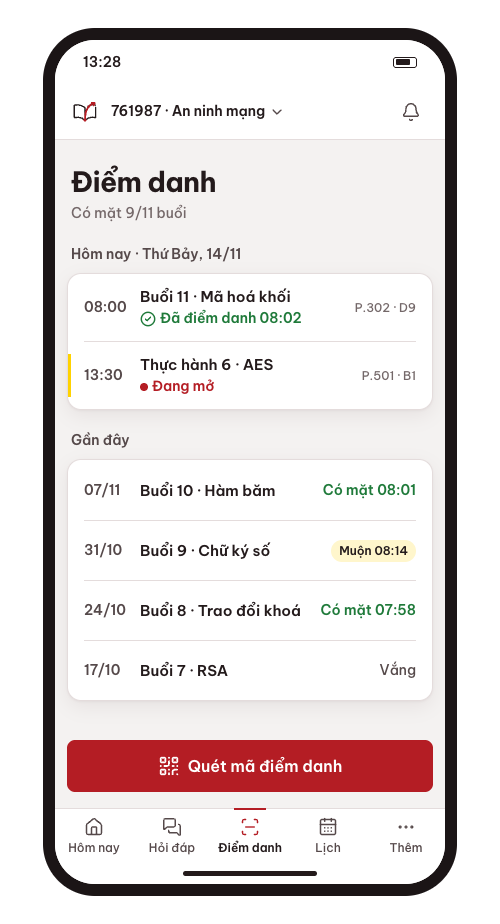
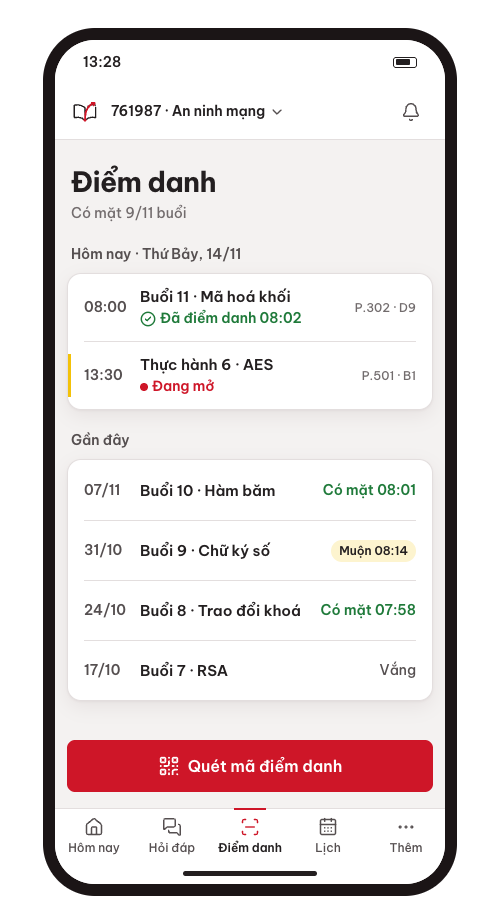
10.7: màn mẫu dùng mã màu chính thức của sổ tay nhận diện ĐHBK Hà Nội 2026 (đỏ #CE1628, vàng #F3C108, đen #231F20)

Changed region(s): [[0.12, 0.7879, 0.87, 0.8788], [0.27, 0.3939, 0.3, 0.4242]]

diff --git a/docs/sprints/10.7/mau/mau-1.html b/docs/sprints/10.7/mau/mau-1.html
@@ -8,9 +8,11 @@
   MẪU THAM CHIẾU sprint 10.7 (UI-R). KHÔNG phải mã sản phẩm, không chép vào frontend/.
   Áp: (1) hợp đồng khung trang (nháp DESIGN.md §23): một mẫu đầu trang, Page kiểu `work`, mỗi vùng một Panel rộng đúng cột, cao theo nội dung;
        (2) bộ màu theo nhận diện Đại học Bách khoa Hà Nội: đỏ + vàng điểm nhấn + trắng.
-  MÃ MÀU TẠM (chưa đối chiếu sổ tay nhận diện, làm ở TL-1):
-    đỏ  #B41D24, đỏ đậm #9D1D1F  = màu chủ đạo trong CSS cổng hust.edu.vn (themes/hust/css/hust.css, custom.css; đọc 2026-11-14)
-    vàng #FFD200                 = màu vàng trong CSS cổng qldt.hust.edu.vn (css/index.css; đọc 2026-11-14)
+  MÃ MÀU CHÍNH THỨC: «Sổ tay nhận diện thương hiệu ĐHBK Hà Nội – version 2026» (hust.edu.vn › Hệ thống nhận diện thương hiệu, PDF ngày 23/10/2026), trang 4 «Hệ màu quy chuẩn»:
+    đỏ  RGB 206, 22, 40  = #CE1628 (CMYK 0, 100, 90, 15)
+    vàng RGB 243, 193, 8 = #F3C108 (CMYK 0, 20, 100, 5)
+    đen RGB 35, 31, 32   = #231F20 (CMYK 0, 0, 0, 100)
+  Đỏ đậm, đỏ nhạt, vàng nhạt, xám là màu SUY RA từ ba màu trên (không có trong sổ tay).
   Vàng chỉ làm NỀN / chấm / vạch (chữ vàng trên trắng không đạt AA). Đỏ vẫn là tín hiệu: đang ở đâu, cần hành động, số việc chờ.
 -->
 <link rel="preconnect" href="https://fonts.googleapis.com">
@@ -20,14 +22,14 @@
 :root {
   color-scheme: light;
   /* ---- bộ màu Bách khoa (đề xuất; chỉ đổi ở tokens.css) ---- */
-  --ep-red: #B41D24;
-  --ep-red-hover: #9D1D1F;
-  --ep-red-soft: #FBEFEF;
-  --ep-yellow: #FFD200;        /* MỚI: điểm nhấn hiếm, chỉ làm nền / chấm / vạch */
-  --ep-yellow-soft: #FFF6CC;   /* MỚI: nền nhãn «cần chú ý», chữ --ep-ink */
+  --ep-red: #CE1628;          /* đỏ Bách khoa (sổ tay tr. 4) */
+  --ep-red-hover: #A81220;    /* suy ra: đỏ đậm khi rê / nhấn */
+  --ep-red-soft: #FDEEF0;     /* suy ra: nền mục đang chọn */
+  --ep-yellow: #F3C108;       /* vàng Bách khoa (sổ tay tr. 4). MỚI: điểm nhấn hiếm, chỉ làm nền / chấm / vạch */
+  --ep-yellow-soft: #FDF4CF;  /* suy ra. MỚI: nền nhãn «cần chú ý», chữ --ep-ink */
   --ep-canvas: #F4F2F1; --ep-surface: #FFFFFF; --ep-surface-subtle: #FAF6F6;
-  --ep-ink: #231A1B; --ep-ink-2: #55494A; --ep-ink-3: #746869; --ep-rule: #E4DCDC;
-  --ep-green: #1F7A3A; --ep-blue: #1F5FA8;
+  --ep-ink: #231F20; --ep-ink-2: #554F50; --ep-ink-3: #726C6D; --ep-rule: #E3DEDE; /* --ep-ink = đen Bách khoa (sổ tay tr. 4) */
+  --ep-green: #1F7A3A; --ep-blue: #003366;
   /* ---- không đổi ---- */
   --ep-font: "Be Vietnam Pro", "Noto Sans", ui-sans-serif, system-ui, sans-serif;
   --ep-text-page: 1.75rem; --ep-text-section: 1.25rem; --ep-text-item: 1rem; --ep-text-body: .9375rem; --ep-text-label: .875rem; --ep-text-meta: .75rem;
@@ -88,7 +90,7 @@ h1, h2, h3, p { margin: 0; } ul { margin: 0; padding: 0; list-style: none; } svg
 .row + .row { border-top: 1px solid var(--ep-rule); }
 .dot { flex: none; width: 8px; height: 8px; border-radius: var(--ep-radius-pill); background: var(--ep-ink-3); align-self: flex-start; margin-top: 9px; }
 .dot.red { background: var(--ep-red); }
-.dot.yellow { background: var(--ep-yellow); box-shadow: 0 0 0 1px #C79A00; } /* viền đậm hơn một bậc: chấm vàng vẫn đọc được trên trắng */
+.dot.yellow { background: var(--ep-yellow); box-shadow: 0 0 0 1px #B8900A; } /* viền đậm hơn một bậc: chấm vàng vẫn đọc được trên trắng */
 .text { flex: 1; min-width: 0; display: grid; gap: 2px; }
 .itemTitle { font-size: var(--ep-text-item); font-weight: 600; line-height: 1.4; }
 .context { font-size: var(--ep-text-label); line-height: 1.5; color: var(--ep-ink-2); font-variant-numeric: tabular-nums; }
@@ -151,15 +153,15 @@ h1, h2, h3, p { margin: 0; } ul { margin: 0; padding: 0; list-style: none; } svg
   <div class="brand"><svg width="188" height="40" viewBox="0 0 188 40" fill="none" xmlns="http://www.w3.org/2000/svg">
   <title>EduPilot</title>
   <g>
-    <path d="M4.75 10.25C10.3 8.85 15.35 10.15 20 14.15V31.6C15.35 27.8 10.3 26.6 4.75 28.15V10.25Z" stroke="#251D1E" stroke-width="2" stroke-linejoin="round"/>
-    <path d="M35.25 10.25C31.15 9.2 27.35 9.65 23.75 11.75" stroke="#251D1E" stroke-width="2" stroke-linecap="round"/>
-    <path d="M35.25 12.8V28.15C30.05 26.7 25.3 27.55 20 31.6" stroke="#251D1E" stroke-width="2" stroke-linecap="round" stroke-linejoin="round"/>
-    <path d="M20 31.55C20.05 24.9 20.75 19.5 23.15 15.25C25.45 11.15 28.55 8.75 33.55 7.15" stroke="#B41D24" stroke-width="2.7" stroke-linecap="round"/>
-    <path d="M29.4 6.65L34.1 6.9L31.9 11.1" stroke="#B41D24" stroke-width="2.2" stroke-linecap="round" stroke-linejoin="round"/>
-    <circle cx="20" cy="31.55" r="2.2" fill="#B41D24"/>
+    <path d="M4.75 10.25C10.3 8.85 15.35 10.15 20 14.15V31.6C15.35 27.8 10.3 26.6 4.75 28.15V10.25Z" stroke="#231F20" stroke-width="2" stroke-linejoin="round"/>
+    <path d="M35.25 10.25C31.15 9.2 27.35 9.65 23.75 11.75" stroke="#231F20" stroke-width="2" stroke-linecap="round"/>
+    <path d="M35.25 12.8V28.15C30.05 26.7 25.3 27.55 20 31.6" stroke="#231F20" stroke-width="2" stroke-linecap="round" stroke-linejoin="round"/>
+    <path d="M20 31.55C20.05 24.9 20.75 19.5 23.15 15.25C25.45 11.15 28.55 8.75 33.55 7.15" stroke="#CE1628" stroke-width="2.7" stroke-linecap="round"/>
+    <path d="M29.4 6.65L34.1 6.9L31.9 11.1" stroke="#CE1628" stroke-width="2.2" stroke-linecap="round" stroke-linejoin="round"/>
+    <circle cx="20" cy="31.55" r="2.2" fill="#CE1628"/>
   </g>
-  <text x="51" y="27" fill="#251D1E" font-family="Be Vietnam Pro, Noto Sans, Arial, sans-serif" font-size="21" font-weight="700" letter-spacing="-0.5">Edu</text>
-  <text x="88" y="27" fill="#B41D24" font-family="Be Vietnam Pro, Noto Sans, Arial, sans-serif" font-size="21" font-weight="700" letter-spacing="-0.5">Pilot</text>
+  <text x="51" y="27" fill="#231F20" font-family="Be Vietnam Pro, Noto Sans, Arial, sans-serif" font-size="21" font-weight="700" letter-spacing="-0.5">Edu</text>
+  <text x="88" y="27" fill="#CE1628" font-family="Be Vietnam Pro, Noto Sans, Arial, sans-serif" font-size="21" font-weight="700" letter-spacing="-0.5">Pilot</text>
 </svg></div>
   <nav class="nav" aria-label="Điều hướng chính">
     <div class="group"><div class="groupLabel">Làm việc</div>

diff --git a/docs/sprints/10.7/mau/mau-app.html b/docs/sprints/10.7/mau/mau-app.html
@@ -6,7 +6,7 @@
 <title>EduPilot · Mẫu app · Điểm danh bằng mã QR (sinh viên) · bộ màu Bách khoa</title>
 <!--
   MẪU THAM CHIẾU sprint 10.7 / 10.8. KHÔNG phải mã sản phẩm. Màn sinh viên trên app điện thoại (390 × 844), điểm danh bằng mã QR của sprint 10.8.
-  Cùng bộ màu tạm với mau-1.html: đỏ #B41D24 / #9D1D1F (CSS cổng hust.edu.vn), vàng #FFD200 (CSS cổng qldt.hust.edu.vn); đối chiếu sổ tay nhận diện ở TL-1.
+  Mã màu chính thức theo «Sổ tay nhận diện thương hiệu ĐHBK Hà Nội – version 2026», trang 4: đỏ #CE1628 (RGB 206, 22, 40), vàng #F3C108 (RGB 243, 193, 8), đen #231F20 (RGB 35, 31, 32). Màu nhạt / đậm là suy ra.
   Một nút chính ở vùng ngón cái; trạng thái 1–2 từ, có chữ + biểu tượng (không truyền nghĩa chỉ bằng màu); vùng chạm ≥ 44 px.
 -->
 <link rel="preconnect" href="https://fonts.googleapis.com">
@@ -15,9 +15,9 @@
 <style>
 :root {
   color-scheme: light;
-  --ep-red: #B41D24; --ep-red-hover: #9D1D1F; --ep-red-soft: #FBEFEF; --ep-yellow: #FFD200; --ep-yellow-soft: #FFF6CC;
+  --ep-red: #CE1628; --ep-red-hover: #A81220; --ep-red-soft: #FDEEF0; --ep-yellow: #F3C108; --ep-yellow-soft: #FDF4CF;
   --ep-canvas: #F4F2F1; --ep-surface: #FFFFFF; --ep-surface-subtle: #FAF6F6;
-  --ep-ink: #231A1B; --ep-ink-2: #55494A; --ep-ink-3: #746869; --ep-rule: #E4DCDC; --ep-green: #1F7A3A;
+  --ep-ink: #231F20; --ep-ink-2: #554F50; --ep-ink-3: #726C6D; --ep-rule: #E3DEDE; --ep-green: #1F7A3A;
   --ep-font: "Be Vietnam Pro", "Noto Sans", ui-sans-serif, system-ui, sans-serif;
   --ep-text-page: 1.75rem; --ep-text-item: 1rem; --ep-text-body: .9375rem; --ep-text-label: .875rem; --ep-text-meta: .75rem;
   --ep-space-1: .25rem; --ep-space-2: .5rem; --ep-space-3: .75rem; --ep-space-4: 1rem; --ep-space-5: 1.25rem; --ep-space-6: 1.5rem;
@@ -124,12 +124,12 @@ h1, h2, p { margin: 0; } svg { display: block; } button { font: inherit; }
   <header class="topbar">
     <svg class="mark" width="40" height="40" viewBox="0 0 40 40" fill="none" xmlns="http://www.w3.org/2000/svg">
   <title>EduPilot mark</title>
-  <path d="M4.75 10.25C10.3 8.85 15.35 10.15 20 14.15V31.6C15.35 27.8 10.3 26.6 4.75 28.15V10.25Z" stroke="#251D1E" stroke-width="2" stroke-linejoin="round"/>
-  <path d="M35.25 10.25C31.15 9.2 27.35 9.65 23.75 11.75" stroke="#251D1E" stroke-width="2" stroke-linecap="round"/>
-  <path d="M35.25 12.8V28.15C30.05 26.7 25.3 27.55 20 31.6" stroke="#251D1E" stroke-width="2" stroke-linecap="round" stroke-linejoin="round"/>
-  <path d="M20 31.55C20.05 24.9 20.75 19.5 23.15 15.25C25.45 11.15 28.55 8.75 33.55 7.15" stroke="#B41D24" stroke-width="2.7" stroke-linecap="round"/>
-  <path d="M29.4 6.65L34.1 6.9L31.9 11.1" stroke="#B41D24" stroke-width="2.2" stroke-linecap="round" stroke-linejoin="round"/>
-  <circle cx="20" cy="31.55" r="2.2" fill="#B41D24"/>
+  <path d="M4.75 10.25C10.3 8.85 15.35 10.15 20 14.15V31.6C15.35 27.8 10.3 26.6 4.75 28.15V10.25Z" stroke="#231F20" stroke-width="2" stroke-linejoin="round"/>
+  <path d="M35.25 10.25C31.15 9.2 27.35 9.65 23.75 11.75" stroke="#231F20" stroke-width="2" stroke-linecap="round"/>
+  <path d="M35.25 12.8V28.15C30.05 26.7 25.3 27.55 20 31.6" stroke="#231F20" stroke-width="2" stroke-linecap="round" stroke-linejoin="round"/>
+  <path d="M20 31.55C20.05 24.9 20.75 19.5 23.15 15.25C25.45 11.15 28.55 8.75 33.55 7.15" stroke="#CE1628" stroke-width="2.7" stroke-linecap="round"/>
+  <path d="M29.4 6.65L34.1 6.9L31.9 11.1" stroke="#CE1628" stroke-width="2.2" stroke-linecap="round" stroke-linejoin="round"/>
+  <circle cx="20" cy="31.55" r="2.2" fill="#CE1628"/>
 </svg>
     <div class="course">761987 · An ninh mạng<svg class="ic"><use href="#i-chevron-down"/></svg></div>
     <button class="iconBtn" aria-label="Thông báo"><svg class="ic"><use href="#i-bell"/></svg></button>
